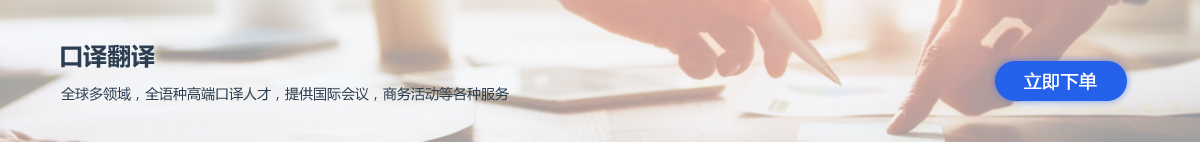
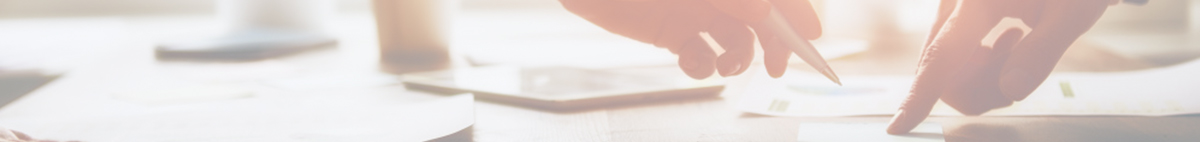
更新UED样式和首页

Changed region(s): [[0.8017, 0.3944, 0.9558, 0.7324], [0.0308, 0.5915, 0.4317, 0.7042], [0.0308, 0.3099, 0.1542, 0.4789]]

diff --git a/src/main/webapp/resources/template/css/modular/index.css b/src/main/webapp/resources/template/css/modular/index.css
@@ -1,7 +1,7 @@
 .homebody{background:#fff;}
 /**banner**/
-.banner{width:100%;height:609px;text-align: center;background:url(../../images/index-banner.jpg) no-repeat center;min-width:1200px;}
-.banner-en{width:100%;height:609px; text-align: center;background:url(../../images/index-banner_en.jpg) no-repeat center;min-width:1200px;}
+.banner{width:100%;height:609px;text-align: center;background-image:url(../../images/index-banner.jpg);background-position:center; background-repeat:no-repeat;min-width:1200px;padding:125px 0 0 0}
+.banner-en{width:100%;height:609px; text-align: center;background-image:url(../../images/index-banner_en.jpg);background-position:center; background-repeat:no-repeat;min-width:1200px;}
 /**导航**/
 .index-nav{width:1200px;margin:0 auto;position:absolute;top:58px;left:50%;margin-left:-600px;min-width:1200px;z-index: 99;}
 .index-nav ul{width:100%;display:inline-block;}
@@ -55,11 +55,11 @@
 .explain-wapper{width:1200px;margin-top:20px;margin:0 auto;height:328px;}
 .explain-cont{width:285px;float:left;margin-top:20px;}
 .item2{position:relative;float:left;width:285px;height:328px;cursor:pointer;margin: 0;padding: 0;}
-.item2 .caption{position:absolute;left:0;display:none;width:100%;height:328px;padding:80px 50px 0;color:#2c3e50;font-weight:bold; background:#000;}
-.item2 .caption1{position:absolute;left:0;display:none;width:100%;height:328px;padding:80px 0px 0;color:#2c3e50;font-weight:bold;background:url(../../images/explain1.jpg) no-repeat;}
-.item2 .caption2{position:absolute;left:0;display:none;width:100%;height:328px;padding:80px 0px 0;color:#2c3e50;font-weight:bold;background:url(../../images/explain2.jpg) no-repeat;}
-.item2 .caption3{position:absolute;left:0;display:none;width:100%;height:328px;padding:80px 0px 0;color:#2c3e50;font-weight:bold;background:url(../../images/explain3.jpg) no-repeat;}
-.item2 .caption4{position:absolute;left:0;display:none;width:100%;height:328px;padding:80px 0px 0;color:#2c3e50;font-weight:bold;background:url(../../images/explain4.jpg) no-repeat;}
+.item2 .caption{position:absolute;left:0;display:none;width:100%;height:328px;padding:80px 50px 0;color:#2c3e50;font-weight:bold;}
+.item2 .caption1{position:absolute;left:-2px;top:-3px;display:none;width:100%;height:328px;padding:80px 0px 0;color:#2c3e50;font-weight:bold;background:url(../../images/explain1.jpg) no-repeat;}
+.item2 .caption2{position:absolute;left:-2px;top:-3px;display:none;width:100%;height:328px;padding:80px 0px 0;color:#2c3e50;font-weight:bold;background:url(../../images/explain2.jpg) no-repeat;}
+.item2 .caption3{position:absolute;left:-2px;top:-3px;display:none;width:100%;height:328px;padding:80px 0px 0;color:#2c3e50;font-weight:bold;background:url(../../images/explain3.jpg) no-repeat;}
+.item2 .caption4{position:absolute;left:-2px;top:-3px;display:none;width:100%;height:328px;padding:80px 0px 0;color:#2c3e50;font-weight:bold;background:url(../../images/explain4.jpg) no-repeat;}
 .item2 .caption p{line-height:25px;margin-bottom:5px;color:#2c3e50;text-align:center;font-size:14px;}
 .item2 .caption .text-l{text-align:left;width:190px;margin:0 auto;}
 .item2 .caption .title{font-size:24px;margin-bottom:30px;font-weight:bold;}
@@ -67,7 +67,8 @@
 
 
 .item2 p{margin:0;line-height:20px;font-size:12px;color:#fff;font-weight:normal;}
-.item2 .img{border:0;position:absolute;width:100%; height:328px;background:#fff;-webkit-box-shadow: #3292f8 0px 0px 6px;-moz-box-shadow: #3292f8 0px 0px 6px;box-shadow: #3292f8 0px 0px 6px;}
+.item2 .img{border:0;position:absolute;width:280px;height:323px;background:#fff;-webkit-box-shadow: #2965e6 0px 0px 4px;-moz-box-shadow: #2965e6 0px 0px 4px;box-shadow: #2965e6 0px 0px 4px;}
+
 .item2-txt{position:absolute;left:50%;top:40px;margin-left:-85px;width:170px;color:#2c3e50;overflow:hidden;}
 .item2-txt span{width: 100%;float:left;line-height:24px;font-size:14px;}
 .item2-txt .word{text-align:center;font-size:24px;color:#2c3e50;font-weight:bold}
@@ -77,14 +78,19 @@
 .item2-txt .exp-icon4{width:113px;height:113px;background:url(../../images/icon-big.png) no-repeat left -1467px;margin:32px 0 0 34px;}
 /**广告位**/
 .banner-wapper{width:100%;float:left;}
-.banner-sm{width:1200px;margin:0 auto;display:none;margin-top:20px;}
+.banner-sm{width:1200px;margin:0 auto;display:none;height:142px;margin-top:20px;background:url(../../images/banner-sm.jpg) no-repeat;}
+.banner-sm p{float:left}
+.banner-sm p span{width:100%;float:left;font-size:14px;color:#2c3e50}
+.banner-sm .left{width:540px;float:left;margin:30px 0 0 50px;}
+.banner-sm .left .word{font-size:24px;color:#2c3e50;margin-bottom:22px;}
+.banner-sm .right{float:right;margin:55px 74px 0  0;}
 .banner-hover{width:100%;height:26px;background:#f0f0f0;margin-top:20px;text-align: center;}
 .banner-hover p{width:102px;height:26px;background:url(../../images/sj.jpg) no-repeat;margin:0 auto;}
 .banner-hover p i{color:#2d68e6;font-size:22px;cursor:pointer;}
 /**服务平台**/
 .service-wapper{width:100%;height:405px;background:#f0f0f0;min-width:1200px;float:left;}
 .service-container{width:1200px;margin:0 auto;}
-.service-title{width:1200px;float:left;text-align:center;font-size:24px;color:#2c3e50;margin-top:40px;}
+.service-title{width:1200px;float:left;text-align:center;font-size:24px;color:#2c3e50;margin-top:40px;margin-bottom:30px;}
 .service-list{width:100%;float:left;margin-top:50px;}
 .service-list .none{width:590px;float:left}
 .service-list .none li{float:left;color:#2c3e50}
@@ -97,6 +103,18 @@
 .service-list .tow li .p-word{padding-left:30px;color:#2c3e50;font-size:18px;}
 .service-list .tow li .sev-icon3{width:229px;height:182px;background:url(../../images/icon-big.png) no-repeat left -2002px;}
 .service-list .right{float:right}
+
+.hot_role{width:1200px;overflow:hidden;}
+#centerwell{width:1200px;position:relative;height:240px;margin:0;padding:0;overflow:hidden;}
+#centerwell li{position:relative;width:216px;height:240px;float:left;overflow:hidden;margin-right:130px}
+#centerwell h3{width:216px;height:240px;position:relative;cursor:pointer;position:relative; }
+#centerwell h3 p{width:100%;font-size:20px;color:#2c3e50;font-weight:normal;line-height:50px;}
+#centerwell h3 .jiaicon1{color:#4cc2ff;position:relative;right:-15px;top:-30px;line-height:0;font-size:30px;display: none;}
+#centerwell h3 .jiaicon2{color:#1fd1b5;position:relative;right:-15px;top:-30px;line-height:0;font-size:30px}
+#centerwell h3 .jiaicon3{color:#fbc04f;position:relative;right:-15px;top:-30px;line-height:0;font-size:30px}
+#centerwell h3 .word{margin-left:30px;}
+#centerwell .hot_content{position:absolute;left:216px;top:15px;width:245px;color:#2c3e50;font-size:14px;margin:70px 0 0 0px;}
+
 
 /**数据**/
 .data-wapper{width:100%;height:321px;background:url(../../images/data-bj.jpg) no-repeat center;min-width:1200px;background-size:100% 321px;float:left;}

diff --git a/src/main/webapp/resources/template/css/modular/modular.css b/src/main/webapp/resources/template/css/modular/modular.css
@@ -133,7 +133,22 @@
 .no-order ul .right{float:right}
 .no-order ul .mt-t50{margin-top:80px;}
 .no-order ul .mt-t500{margin-top:50px;}
-.no-step{width:100%;text-align: center;float:left;margin-top:80px;}
+.no-step{width:100%;float:left;margin-top:80px;padding-left:120px;}
+.no-step ul{width:100%;float:left}
+.no-step ul li{float:left;text-align: center;margin-right:18px;}
+.no-step ul li p{width:100%;text-align:center;margin-bottom:15px;}
+.no-step ul li .sz-radius{width:30px;height:30px;background:#2361ea;border-radius:50%;line-height:30px;color:#fff;margin-left:30px;}
+.no-step ul .iocn1{width:70px;height:70px;background:url(../../images/icon-big.png) no-repeat -78px -585px;margin-left:8px;}
+.no-step ul .iocn2{width:70px;height:70px;background:url(../../images/icon-big.png) no-repeat -168px -585px;margin-left:8px;}
+.no-step ul .iocn3{width:70px;height:70px;background:url(../../images/icon-big.png) no-repeat -258px -585px;margin-left:8px;}
+.no-step ul .iocn4{width:70px;height:70px;background:url(../../images/icon-big.png) no-repeat -348px -585px;margin-left:8px;}
+.no-step ul .iocn5{width:70px;height:70px;background:url(../../images/icon-big.png) no-repeat -247px -707px;margin-left:8px;}
+.no-step ul .iocn6{width:70px;height:70px;background:url(../../images/icon-big.png) no-repeat -335px -707px;margin-left:18px;}
+.no-step ul .iocn7{width:70px;height:70px;background:url(../../images/icon-big.png) no-repeat -416px -707px;margin-left:18px;}
+.no-step ul .iocn8{width:70px;height:70px;background:url(../../images/icon-big.png) no-repeat -493px -707px;margin-left:8px;}
+.no-step ul .word{width:100%;text-align: center;color:#2361ea}
+.no-step ul .line{width:60px;height:20px;background:url(../../images/icon-big.png) no-repeat -258px -677px;margin:30px 18px 0  0px;}
+.no-step ul .line1{width:60px;height:20px;background:url(../../images/icon-big.png) no-repeat -355px -677px;margin:30px 18px 0  0px;}
 /**我的订单**/
 .oder-table{width:100%;float:left;border-bottom:1px solid #e3e6ed;padding-bottom:18px;}
 .oder-table ul{width:100%;float:left}

diff --git a/src/main/webapp/resources/template/scripts/modular/index.js b/src/main/webapp/resources/template/scripts/modular/index.js
@@ -1,13 +1,12 @@
 $(document).ready(function(){
   $("#int-before").click(function(){
-    $(".index-wrapper").animate({top:'150px'},400);
+    $(".index-wrapper").animate({top:'100px'},300);
+    $(".banner").css({"height":"343px"});
   });
 });
-
-//
 $(function () {
     $(".banner-hover p").click(function () {
-		$(this).children('i').toggleClass(" icon-angle-down   icon-angle-up");
+		$(this).children('i').toggleClass(" icon-angle-down icon-angle-up");
 		$(this).parents().parent().children('.banner-sm').slideToggle(50);
     });
 });	
@@ -34,7 +33,7 @@ $(function(){
 $(function(){
   $("#error").click(function(){
   $("#error").hide();
-  $("#error-oc").show();
+  $("#error-oc").show();preser-btn
   });
   $("#preser-btn").click(function(){
   $("#error-oc").hide();
@@ -74,3 +73,37 @@ $(function () {
    });
     
   });
+  
+//
+$(function(){
+  $("#img1").click(function(){
+  $(".jiaicon1").hide();
+  $(".jiaicon2").show();
+  $(".jiaicon3").show();
+  });
+  $("#img2").click(function(){
+  $(".jiaicon2").hide();
+  $(".jiaicon1").show();
+  $(".jiaicon3").show();
+  });
+   $("#img3").click(function(){
+  $(".jiaicon3").hide();
+  $(".jiaicon1").show();
+  $(".jiaicon2").show();
+  });
+});
+//风琴
+$(function () {
+    var $centerwell_first = $('#centerwell li:first');
+    $centerwell_first.animate({ width: '500px' }, 300);
+    $centerwell_first.find('h3').addClass("on");
+
+    $('#centerwell li').click(function () {
+        if (!$(this).is(':animated')) {
+            $(this).animate({ width: '500px' }, 300).siblings().animate({ width: '216px' }, 300);
+
+            $('#centerwell li h3').removeClass("on");
+            $(this).find("h3").addClass("on");
+        }
+    });
+});

diff --git a/src/main/webapp/resources/template/css/modular/headr-footer.css b/src/main/webapp/resources/template/css/modular/headr-footer.css
@@ -73,9 +73,12 @@
 .footer-about-right ul li p{float:left}
 .footer-about-right ul .shaw{float:right}
 .footer-about-right ul .shaw p{margin-left:12px;margin-top:32px;}
-.footer-about-right ul li .shaw-a a{width:38px;height:38px;background: url(../../images/icon-big.png) no-repeat left -841px;float:left;}
-.footer-about-right ul li .shaw-b a{width:38px;height:38px;background: url(../../images/icon-big.png) no-repeat left -886px;float:left;}
-.footer-about-right ul li .shaw-c a{width:38px;height:38px;background: url(../../images/icon-big.png) no-repeat left -930px;float:left;}
+.footer-about-right ul li .shaw-a a{width:39px;height:39px;background: url(../../images/icon-big.png) no-repeat left -841px;float:left;}
+.footer-about-right ul li .shaw-a a:hover{width:39px;height:39px;background: url(../../images/icon-big.png) no-repeat -50px -930px;float:left;}
+.footer-about-right ul li .shaw-b a{width:39px;height:39px;background: url(../../images/icon-big.png) no-repeat left -886px;float:left;}
+.footer-about-right ul li .shaw-b a:hover{width:39px;height:39px;background: url(../../images/icon-big.png) no-repeat -100px -930px;float:left;}
+.footer-about-right ul li .shaw-c a{width:39px;height:39px;background: url(../../images/icon-big.png) no-repeat left -930px;float:left;}
+.footer-about-right ul li .shaw-c a:hover{width:39px;height:39px;background: url(../../images/icon-big.png) no-repeat -150px -930px;float:left;}
 .footer-list{width:100%;float:left;margin-top:40px;border-top:1px solid #528fea;padding-top:25px;}
 .footer-list ul li{text-align: center;line-height:30px;font-size:12px;color:#5b96ed}
 .footer-list ul li img{margin-left:10px;}

diff --git a/src/main/webapp/resources/template/css/modular/global.css b/src/main/webapp/resources/template/css/modular/global.css
@@ -411,8 +411,9 @@ pre ol.linenums li {
 .btn-trans{width:80px;height:26px;font-weight:normal;}
 .btn-trans-b{width:80px;height:26px;font-weight:normal;border:1px solid #2361ea;color:#2965e6}
 .trans-btn-zh{width:104px;height:37px;}
-.place-btn{width:132px;height:40px;font-size:18px;color:#fff;bottom:28px;left:76px;position:absolute;-webkit-box-shadow: #3292f8 0px 0px 6px;-moz-box-shadow: #3292f8 0px 0px 6px;box-shadow: #3292f8 0px 0px 6px;margin-left:5px;}
+.place-btn{width:132px;height:40px;font-size:18px;color:#fff;bottom:24px;left:76px;position:absolute;-webkit-box-shadow: #3292f8 0px 0px 6px;-moz-box-shadow: #3292f8 0px 0px 6px;box-shadow: #3292f8 0px 0px 6px;margin-left:5px;}
 .place-btn-none{width:132px;height:40px;font-size:18px;margin-top:50px;margin-left:20px;color:#2965e6}
+.banner-place-btn{width:132px;height:40px;font-size:18px;color:#fff;-webkit-box-shadow: #3292f8 0px 0px 6px;-moz-box-shadow: #3292f8 0px 0px 6px;box-shadow: #3292f8 0px 0px 6px;margin-left:5px;}
 .btn-230{width:236px;height:50px;}
 .btn-168{width:168px;height:50px;}
 /************************表单************************/
@@ -431,6 +432,7 @@ pre ol.linenums li {
 .textarea-xlarge{width:350px;height:80px;padding:0 20px;}
 .int-in-big{width:425px;height:44px;padding:0 20px;line-height:44px;}
 .int-in-280{width:280px;height:44px;padding:0 20px;line-height:44px;}
+.int-in-200{width:180px;height:40px;padding:0 10px;line-height:40px;}
 .border-sma{border:1px solid #39d5b0}
 .border-sma:hover{border:1px solid #39d5b0}
 /**禁用**/

diff --git a/src/main/webapp/resources/spm_modules/app/jsp/home.js b/src/main/webapp/resources/spm_modules/app/jsp/home.js
@@ -30,7 +30,7 @@ define('app/jsp/home', function (require, exports, module) {
 			"click .change": "_change",
 			"click #error-oc": "_saveText",
 			"click #preser-close": "_cancelSave",
-			"click #error": "_transError",
+			"click #error": "_transError"
         },
 
         //重写父类
